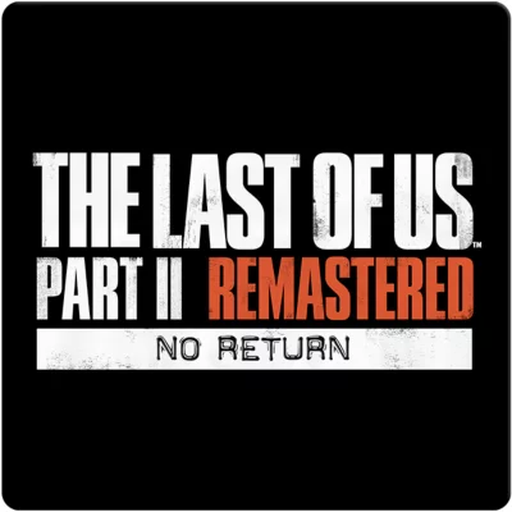
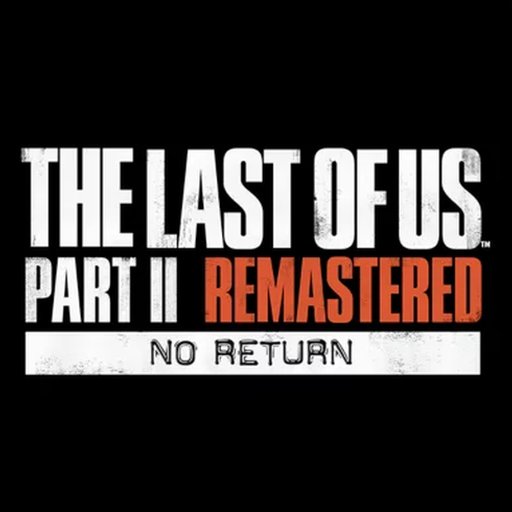
Fix No Return PNG to exact 512x512
Center-crop and resize the current No Return artwork to 512x512 RGB. Remove stale references to the old WebP source.

Changed region(s): [[0.0, 0.0, 1.0, 1.0]]

diff --git a/README.md b/README.md
@@ -141,8 +141,8 @@ The text works immediately. Images need assets uploaded to your Discord app:
 
    512×512 PNG is the safe size; square crops look best. Ready-made 512×512
    files are already in the `assets\` folder next to this README, including
-   `no_return.png`. The original No Return art is a 400×400 WebP, so it was
-   converted to a real 512×512 PNG for upload.
+   `no_return.png`. The No Return art is kept as a real 512×512 RGB PNG for
+   upload.
 4. **Mission art (optional):** the large image changes with the mission.
    `DISCORD-ASSETS.txt` lists all 46 mission keys (`hillcrest`,
    `the_birthday_gift`, `the_confrontation`, `2425_constance`, ...) grouped by
@@ -447,8 +447,8 @@ and target values.
   Story status and all of its art are unchanged.
 - Identified the No Return save slot and its mode flag (`00 80` versus `00 00`
   in story saves), so the two modes can be told apart.
-- Prepared `assets\no_return.png` as a real 512×512 PNG from the 400×400 WebP
-  source; the Discord key `no_return` still needs a manual upload.
+- Prepared `assets\no_return.png` as a real 512×512 RGB PNG for the Discord app;
+  the Discord key `no_return` still needs a manual upload.
 - Decoded difficulty, playtime and collectibles in `params.json` - fields the
   story status already knows how to render.
 - Confirmed the game's in-game character model IDs (`ellie`, `abby`, `joel` and
@@ -530,7 +530,6 @@ and target values.
 | `rpc.log` | Runtime log, created on first run. |
 | `assets\*.png` | Five ready-made 512×512 Discord art assets, including `no_return.png`. |
 | `DISCORD-ASSETS.txt` | Checklist of all 51 Discord art keys (base, characters, 46 missions and No Return). |
-| `assets\raw\no_return.webp` | Original 400×400 No Return art, converted into `assets\no_return.png`. |
 | `pngs\` | Source art for the character portraits. |
 | `make_assets.ps1` | Rebuilds the four Story assets from `pngs\` and `assets\raw\tlou2.png`. |
 | `dll\launcher.c` | ASI plugin that starts the helper with the game. |

diff --git a/CHANGELOG.md b/CHANGELOG.md
@@ -14,9 +14,8 @@ and this project adheres to [Semantic Versioning](https://semver.org/spec/v2.0.0
 - A deliberately small No Return status: `Playing NO RETURN` on the only text
   line, with the `no_return` large image (hover: `No Return`) and no state line,
   no timestamps and no small image yet.
-- `assets\no_return.png`: the placeholder art, converted from the original
-  400×400 WebP to a real 512×512 PNG that Discord accepts. The original is kept
-  in `assets\raw\no_return.webp` for reference.
+- `assets\no_return.png`: the placeholder art, kept as a real 512×512 RGB PNG
+  that Discord accepts. The original 400×400 WebP is no longer bundled.
 - `no_return` added to `DISCORD-ASSETS.txt`; the upload checklist is now 51 keys.
 
 ### Changed

diff --git a/SOURCE-README.md b/SOURCE-README.md
@@ -57,9 +57,8 @@ alone - no memory reads, no save edits and no mode picker. A No Return save
 publishes exactly two things: `Playing NO RETURN` and the `no_return` large
 image (hover `No Return`). There is no second text line, small image or timer.
 
-`assets\no_return.png` is a real 512×512 PNG converted from the original
-400×400 WebP (`assets\raw\no_return.webp`) and is ready to upload to the Discord
-app under the exact key `no_return`. If that key is missing, the helper drops
+`assets\no_return.png` is a real 512×512 RGB PNG and is ready to upload to the
+Discord app under the exact key `no_return`. If that key is missing, the helper drops
 images for the No Return status rather than falling back to Story art; the text
 line still works.
 
